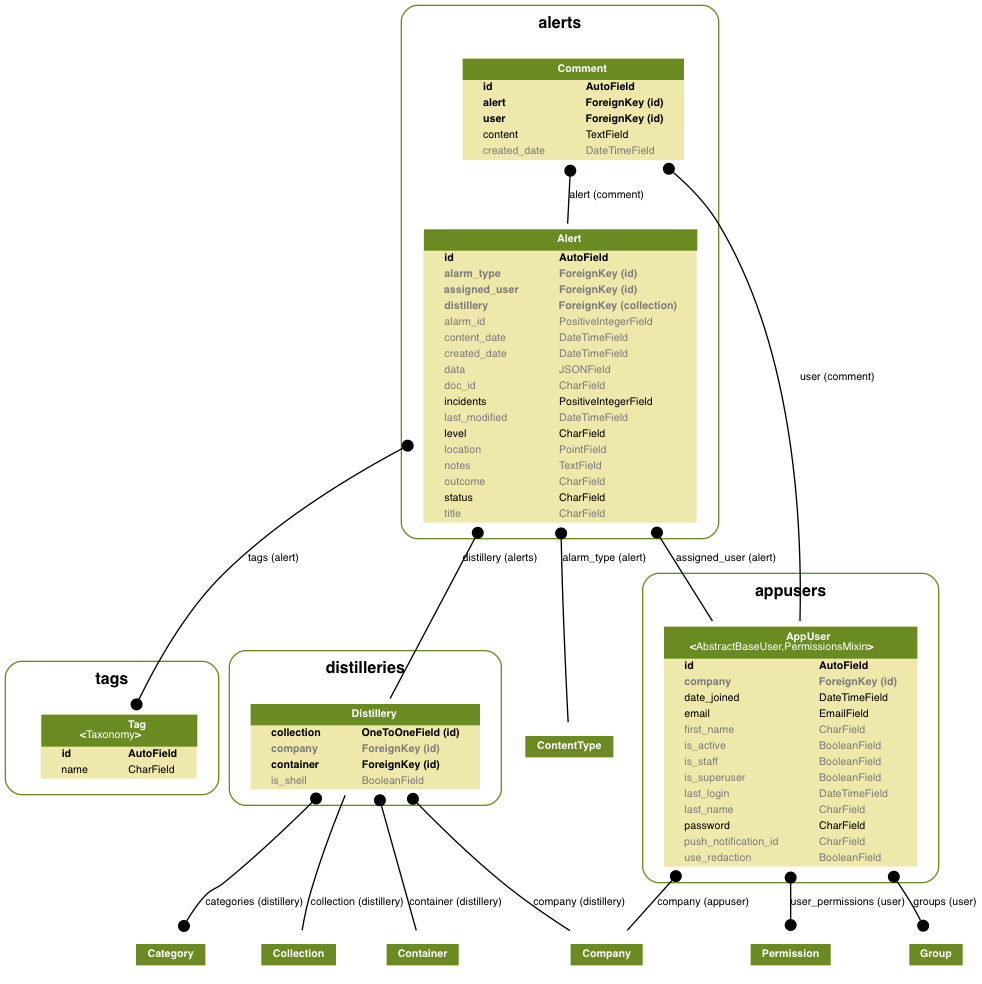
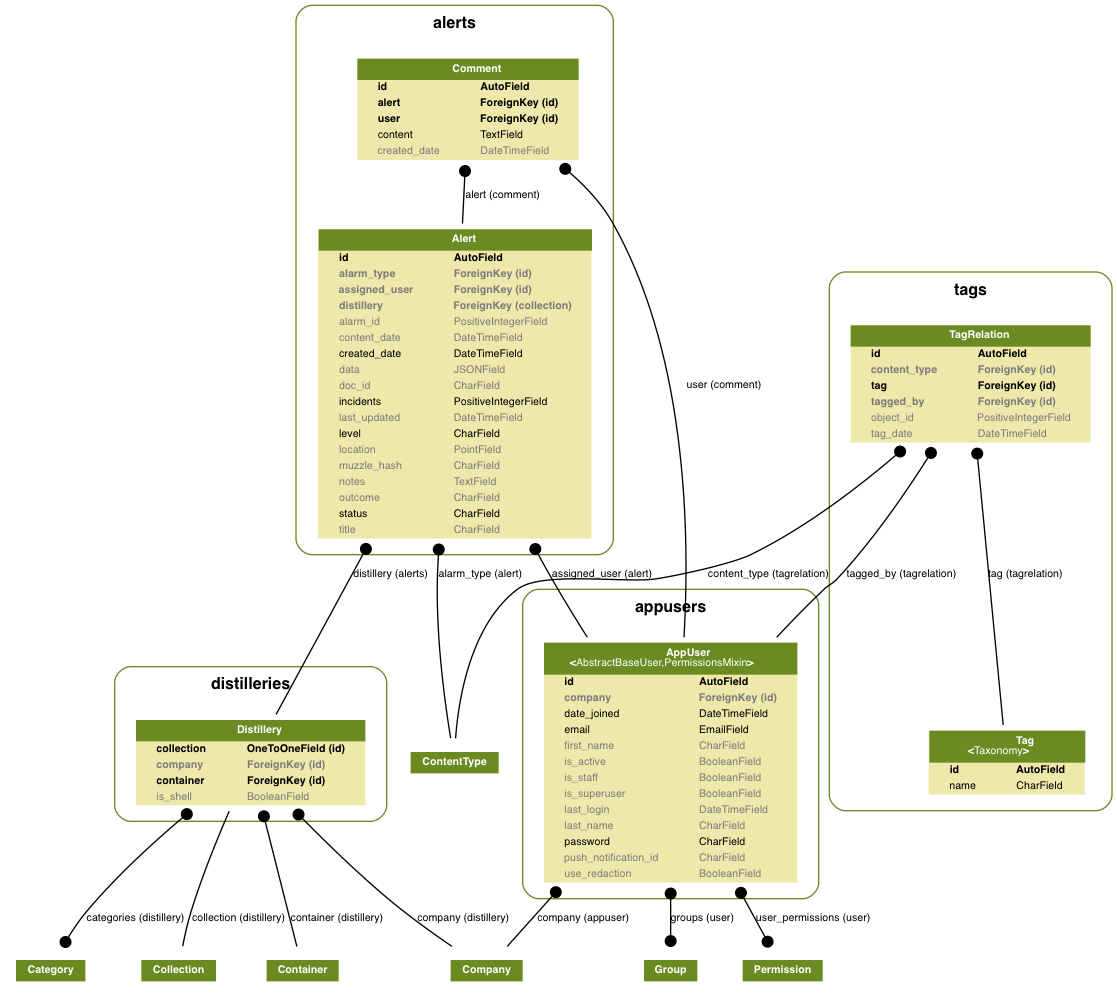
replace Alert.tags with generic relation to TagRelation

diff --git a/cyphon/tags/models.py b/cyphon/tags/models.py
@@ -15,19 +15,124 @@
 # You should have received a copy of the GNU General Public License
 # along with Cyphon Engine. If not, see <http://www.gnu.org/licenses/>.
 """
-Defines Tag class.
+Defines classes for tagging objects.
+
+======================  ================================================
+Class                   Description
+======================  ================================================
+:class:`~Tag`           Term for describing objects.
+:class:`~TagRelation`   Association between a |Tag| and an object.
+======================  ================================================
+
 """
+
+# third party
+from django.conf import settings
+from django.contrib.contenttypes.models import ContentType
+from django.contrib.contenttypes.fields import GenericForeignKey
+from django.db import models
 
 # local
 from taxonomies.models import Taxonomy, TaxonomyManager
 
 
 class Tag(Taxonomy):
-    """
+    """A term for describing objects.
+
+    Attributes
+    ----------
+    name : |str|
+        The name of the Tag.
 
     """
 
     objects = TaxonomyManager()
 
     class Meta(object):
+        """Metadata options."""
+
         ordering = ['name']
+
+    def __str__(self):
+        return self.name
+
+    def assign_tag(self, obj, user=None):
+        """Associate a tag with an object.
+
+        Parameters
+        ----------
+        obj : |Alert| or |Comment|
+            The object to to be tagged.
+
+        user : |AppUser|
+            The user tagging the object.
+
+        Returns
+        -------
+        |TagRelation|
+
+        """
+        model_type = ContentType.objects.get_for_model(obj)
+        return TagRelation.objects.create(
+            content_type=model_type,
+            object_id=obj.id,
+            tag=self,
+            tagged_by=user
+        )
+
+
+class TagRelation(models.Model):
+    """Association between a |Tag| and an object.
+
+    Attributes
+    ----------
+    content_type : ContentType
+        The |ContentType| of object that was tagged.
+
+    object_id : int
+        The id of the :attr:`~TagRelation.tagged_object`.
+
+    tagged_object : `Alert` or `Comment`
+        The object that was tagged, which can be an |Alert| or |Comment|.
+
+    tag : Tag
+        The |Tag| associated with the :attr:`~TagRelation.tagged_object`.
+
+    tag_date : datetime
+        The |datetime| when the TagRelation was created.
+
+    tagged_by : AppUser
+        The |AppUser| who created the TagRelation.
+
+    """
+
+    _ALERT = models.Q(app_label='alerts', model='alert')
+    _COMMENT = models.Q(app_label='alerts', model='comment')
+    _TAGGED = _ALERT | _COMMENT
+
+    content_type = models.ForeignKey(
+        ContentType,
+        limit_choices_to=_TAGGED,
+        blank=True,
+        null=True,
+        on_delete=models.PROTECT
+    )
+    object_id = models.PositiveIntegerField(blank=True, null=True)
+    tagged_object = GenericForeignKey('content_type', 'object_id')
+    tag = models.ForeignKey(Tag)
+    tag_date = models.DateTimeField(auto_now_add=True, null=True, blank=True)
+    tagged_by = models.ForeignKey(
+        settings.AUTH_USER_MODEL,
+        blank=True,
+        null=True,
+        on_delete=models.PROTECT
+    )
+
+    class Meta(object):
+        """Metadata options."""
+
+        unique_together = ('content_type', 'object_id', 'tag')
+
+    def __str__(self):
+        return '%s <%s: %s>' % (self.tag, str(self.content_type).title(),
+                                self.tagged_object)

diff --git a/cyphon/tags/migrations/0002_auto_20170810_1608.py b/cyphon/tags/migrations/0002_auto_20170810_1608.py
@@ -1,0 +1,34 @@
+# -*- coding: utf-8 -*-
+# Generated by Django 1.11.2 on 2017-08-10 20:08
+from __future__ import unicode_literals
+
+from django.conf import settings
+from django.db import migrations, models
+import django.db.models.deletion
+
+
+class Migration(migrations.Migration):
+
+    dependencies = [
+        ('contenttypes', '0002_remove_content_type_name'),
+        migrations.swappable_dependency(settings.AUTH_USER_MODEL),
+        ('tags', '0001_initial'),
+    ]
+
+    operations = [
+        migrations.CreateModel(
+            name='TagRelation',
+            fields=[
+                ('id', models.AutoField(auto_created=True, primary_key=True, serialize=False, verbose_name='ID')),
+                ('object_id', models.PositiveIntegerField(blank=True, null=True)),
+                ('tag_date', models.DateTimeField(auto_now_add=True, null=True)),
+                ('content_type', models.ForeignKey(blank=True, null=True, on_delete=django.db.models.deletion.PROTECT, to='contenttypes.ContentType')),
+                ('tag', models.ForeignKey(on_delete=django.db.models.deletion.CASCADE, to='tags.Tag')),
+                ('tagged_by', models.ForeignKey(blank=True, null=True, on_delete=django.db.models.deletion.PROTECT, to=settings.AUTH_USER_MODEL)),
+            ],
+        ),
+        migrations.AlterUniqueTogether(
+            name='tagrelation',
+            unique_together=set([('content_type', 'object_id', 'tag')]),
+        ),
+    ]

diff --git a/cyphon/tags/tests/test_models.py b/cyphon/tags/tests/test_models.py
@@ -22,20 +22,43 @@ Tests the Company class.
 from django.test import TestCase
 
 # local
-from categories.models import Category
+from alerts.models import Alert
+from tags.models import Tag, TagRelation
 from tests.fixture_manager import get_fixtures
 
 
-class CategoryTestCase(TestCase):
+class TagTestCase(TestCase):
     """
-    Base class for testing the CodeBook class and related classes.
+    Base class for testing the Tag class.
     """
-    fixtures = get_fixtures(['categories'])
+    fixtures = get_fixtures(['tags'])
 
     def test_str(self):
         """
         Tests the __str__ method.
         """
-        category = Category.objects.get(pk=1)
-        self.assertEqual(str(category), 'reports')
+        tag = Tag.objects.get(pk=1)
+        self.assertEqual(str(tag), 'cat')
 
+    def test_assign_tag(self):
+        """
+        Tests the assign_tag method.
+        """
+        tag = Tag.objects.get(pk=2)
+        alert = Alert.objects.get(pk=1)
+        tag_relation = tag.assign_tag(alert)
+        self.assertEqual(tag_relation.tagged_object, alert)
+
+
+class TagRelationTestCase(TestCase):
+    """
+    Base class for testing the TagRelation class.
+    """
+    fixtures = get_fixtures(['tags'])
+
+    def test_str(self):
+        """
+        Tests the __str__ method.
+        """
+        tag_relation = TagRelation.objects.get(pk=1)
+        self.assertEqual(str(tag_relation), 'cat <Alert: PK 1: Acme Supply Co>')

diff --git a/cyphon/alerts/migrations/0009_auto_20170810_1332.py b/cyphon/alerts/migrations/0009_auto_20170810_1332.py
@@ -1,0 +1,40 @@
+# -*- coding: utf-8 -*-
+# Generated by Django 1.11.2 on 2017-08-10 17:32
+from __future__ import unicode_literals
+
+from django.db import migrations, transaction
+
+
+def transfer_tags(apps, schema_editor):
+    """Transfer existing relations between Alerts and Tags to TagRelations."""
+    Alert = apps.get_model('alerts', 'Alert')
+    ContentType = apps.get_model('contenttypes', 'ContentType')
+    TagRelation = apps.get_model('tags', 'TagRelation')
+    while Alert.objects.filter(tags__isnull=False).exists():
+        with transaction.atomic():
+            for alert in Alert.objects.filter(tags__isnull=False)[:1000]:
+                print(alert)
+                for tag in alert.tags.all():
+                    model_type = ContentType.objects.get_for_model(alert)
+                    TagRelation.objects.create(
+                        content_type=model_type,
+                        object_id=alert.id,
+                        tag=tag
+                    )
+                    alert.tags.clear()
+
+
+class Migration(migrations.Migration):
+
+    atomic = False
+    dependencies = [
+        ('tags', '0002_auto_20170810_1608'),
+        ('alerts', '0008_auto_20170807_1103'),
+    ]
+
+    operations = [
+        migrations.RunPython(
+            transfer_tags,
+            reverse_code=migrations.RunPython.noop
+        ),
+    ]

diff --git a/cyphon/alerts/models.py b/cyphon/alerts/models.py
@@ -46,7 +46,7 @@ from cyphon.choices import (
     ALERT_OUTCOME_CHOICES,
 )
 from distilleries.models import Distillery
-from tags.models import Tag
+from tags.models import TagRelation
 from utils.dateutils.dateutils import convert_time_to_seconds
 from utils.dbutils.dbutils import json_encodeable
 from utils.parserutils.parserutils import (
@@ -88,7 +88,7 @@ class AlertManager(models.Manager):
         """
         default_queryset = self.api_queryset()
         return default_queryset.select_related('distillery__company__codebook')\
-                .prefetch_related('distillery__company__codebook__codenames')
+               .prefetch_related('distillery__company__codebook__codenames')
 
     @staticmethod
     def _filter_by_group(user, queryset):
@@ -276,7 +276,6 @@ class Alert(models.Model):
     title = models.CharField(max_length=255, blank=True, null=True)
     incidents = models.PositiveIntegerField(default=1)
     notes = models.TextField(blank=True, null=True)
-    tags = models.ManyToManyField(Tag, blank=True)
     muzzle_hash = models.CharField(
         max_length=64,
         blank=True,

diff --git a/cyphon/tags/admin.py b/cyphon/tags/admin.py
@@ -20,10 +20,42 @@
 
 # third party
 from django.contrib import admin
+from django.contrib.contenttypes.admin import GenericTabularInline
 
 # local
+from tags.models import TagRelation
 from taxonomies.admin import TaxonomyAdmin
 from .models import Tag
+
+
+class TagRelationInlineAdmin(GenericTabularInline):
+    """
+    Customizes inline admin forms for |TagRelations|.
+    """
+
+    model = TagRelation
+    fields = (
+        'tag',
+    )
+    extra = 1
+
+
+@admin.register(TagRelation)
+class TagRelationAdmin(admin.ModelAdmin):
+    """Customizes admin pages for |TagRelations|."""
+
+    list_display = [
+        'tagged_object',
+        'content_type',
+        'tag',
+        'tagged_by',
+        'tag_date',
+    ]
+    list_display_links = ['tagged_object', ]
+    related_lookup_fields = {
+        'generic': [['content_type', 'object_id'], ],
+    }
+    readonly_fields = ['tagged_by', 'tag_date']
 
 
 admin.site.register(Tag, TaxonomyAdmin)

diff --git a/cyphon/alerts/admin.py b/cyphon/alerts/admin.py
@@ -23,6 +23,7 @@ from django.contrib import admin
 from django.utils.translation import ugettext_lazy as _
 
 # local
+from tags.admin import TagRelationInlineAdmin
 from .models import Alert, Comment
 
 
@@ -65,7 +66,6 @@ class AlertAdmin(admin.ModelAdmin):
                 'status',
                 'assigned_user',
                 'notes',
-                'tags',
             ),
         }),
         (_('Source'), {
@@ -131,6 +131,7 @@ class AlertAdmin(admin.ModelAdmin):
         'set_outcome_to_true',
         'set_outcome_to_false',
     ]
+    inlines = [TagRelationInlineAdmin, ]
 
     @staticmethod
     def _format_msg(rows_updated):
@@ -229,4 +230,3 @@ class AlertAdmin(admin.ModelAdmin):
 
 admin.site.register(Alert, AlertAdmin)
 admin.site.register(Comment)
-

diff --git a/docs/source/conf.py b/docs/source/conf.py
@@ -631,6 +631,8 @@ rst_epilog = """
 .. |TARGET_TYPE_CHOICES| replace:: :const:`~cyphon.choices.TARGET_TYPE_CHOICES`
 .. |Tag| replace:: :class:`~tags.models.Tag`
 .. |Tags| replace:: :class:`Tags<tags.models.Tag>`
+.. |TagRelation| replace:: :class:`~tags.models.TagRelation`
+.. |TagRelations| replace:: :class:`Tags<tags.models.TagRelation>`
 .. |Taste| replace:: :class:`~bottler.tastes.models.Taste`
 .. |Tastes| replace:: :class:`Tastes<bottler.tastes.models.Taste>`
 .. |Teaser| replace:: :class:`~teasers.models.Teaser>`

diff --git a/cyphon/alerts/migrations/0010_remove_alert_tags.py b/cyphon/alerts/migrations/0010_remove_alert_tags.py
@@ -1,0 +1,19 @@
+# -*- coding: utf-8 -*-
+# Generated by Django 1.11.2 on 2017-08-10 20:39
+from __future__ import unicode_literals
+
+from django.db import migrations
+
+
+class Migration(migrations.Migration):
+
+    dependencies = [
+        ('alerts', '0009_auto_20170810_1332'),
+    ]
+
+    operations = [
+        migrations.RemoveField(
+            model_name='alert',
+            name='tags',
+        ),
+    ]

diff --git a/cyphon/tests/fixture_manager.py b/cyphon/tests/fixture_manager.py
@@ -79,6 +79,7 @@ FIXTURE_DEPENDENCIES = {
     'searchterms': [],
     'stamps': ['passports', 'pipes', 'actions', 'users'],
     'streams': ['invoices'],
+    'tags': ['alerts', 'comments'],
     'tastes': ['containers'],
     'timeframes': [],
     'warehouses': [],
